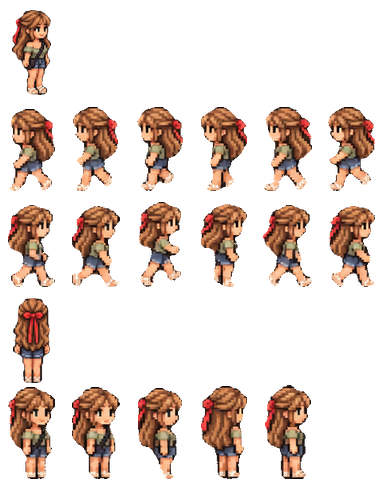
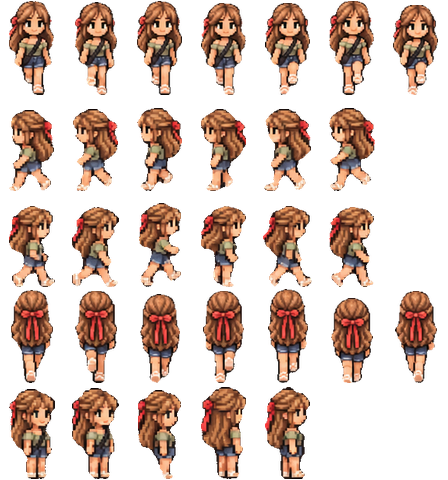
Annie: animated up and down walking and biking
Claude-Session: https://claude.ai/code/session_019vfc9BGUzCoWkXYcXMf4Ma

diff --git a/game.js b/game.js
@@ -1333,15 +1333,15 @@
     if (!(image == null ? void 0 : image.naturalWidth)) return;
     g.drawImage(image, x, y, w, h);
   }
-  const ANNIE_ROWS = { down: [0, 1], left: [1, 6], right: [2, 6], up: [3, 1], idle: [4, 5] };
+  const ANNIE_ROWS = { down: [0, 7], left: [1, 6], right: [2, 6], up: [3, 7], idle: [4, 5] };
   loadAsset("annie_walk");
   function drawAnnie(entity, w, h) {
     const img = assets.annie_walk;
     if (!(img && img.naturalWidth)) return;
-    const moving = entity.moving !== false && (entity.dir === "left" || entity.dir === "right") ? entity.moving : false;
+    const moving = !!entity.moving;
     let [row, n] = ANNIE_ROWS[entity.dir] || ANNIE_ROWS.down, f = 0;
     if (moving) f = Math.floor(entity.phase) % n;
-    const bob = entity.moving && n === 1 ? Math.floor(entity.phase) % 2 : 0;
+    const bob = 0;
     g.drawImage(img, f * 64, row * 96, 64, 96, Math.round(entity.x - w / 2), Math.round(entity.y - h + 6 - bob), w, h);
   }
   function drawIndoorCharacter(actor, male) {
@@ -1721,7 +1721,7 @@
   const RIDE_LAPS = Math.max(1, Math.round((RIDE_END - RIDE_START) * 38 / RIDE_LOOP.length));
   const RIDE_SPEED = RIDE_LAPS * RIDE_LOOP.length / (RIDE_END - RIDE_START);
   const RIDE_SHEETS = {
-    annie: { cw: 90, ch: 100, dirs: ["right", "left"] },
+    annie: { cw: 90, ch: 100, frames: 7, rows: { right: [0, 4], left: [1, 4], down: [2, 7], up: [3, 7] }, dirs: ["down", "right", "up", "left"] },
     hayden: { cw: 83, ch: 99, k: 0.8, dirs: ["down", "downright", "right", "upright", "up", "upleft", "left", "downleft"] },
     alisa: { cw: 66, ch: 101, dirs: ["down", "right", "up", "left"] },
     ralph: { cw: 66, ch: 101, dirs: ["down", "right", "up", "left"] },
@@ -1796,7 +1796,7 @@
       const status = "On the Wednesday bike ride";
       if (!r.sheet) return { step: "ride", status, hidden: true };
       const p = loopPoint(r.s + RIDE_SPEED * (T2 - RIDE_START)), sh = RIDE_SHEETS[r.sheet];
-      return { step: "ride", status, x: p.x, y: p.y + 9, dir: "down", ride: { sheet: r.sheet, dir: dirOf(p.dx, p.dy, sh.dirs), frame: Math.floor((T2 - RIDE_START) * RIDE_SPEED / 11) % 4 } };
+      return { step: "ride", status, x: p.x, y: p.y + 9, dir: "down", ride: { sheet: r.sheet, dir: dirOf(p.dx, p.dy, sh.dirs), frame: Math.floor((T2 - RIDE_START) * RIDE_SPEED / 11) % 4, t: T2 - RIDE_START } };
     }
     if (T2 < r.backT) return { step: "wait", status: "Parking the bikes", x: r.standAt[0], y: r.standAt[1], dir: "down", moving: false };
     return { step: "walk", status: "Walking home from the bike ride", ...samplePath(r.homePath, (T2 - r.backT) / (r.homeT - r.backT)) };
@@ -1805,8 +1805,9 @@
   function drawRider(e) {
     const sh = RIDE_SHEETS[e.ride.sheet], img = assets["bikes/ride_" + e.ride.sheet];
     if (!sh || !(img && img.naturalWidth)) return;
-    const row = Math.max(0, sh.dirs.indexOf(e.ride.dir)), k = (sh.k || 1) / 2, w = sh.cw * k, h = sh.ch * k;
-    g.drawImage(img, e.ride.frame * sh.cw, row * sh.ch, sh.cw, sh.ch, e.x - w / 2, e.y - h, w, h);
+    const rr = sh.rows && sh.rows[e.ride.dir], row = rr ? rr[0] : Math.max(0, sh.dirs.indexOf(e.ride.dir)), k = (sh.k || 1) / 2, w = sh.cw * k, h = sh.ch * k;
+    const frame = rr ? Math.floor(e.ride.t * RIDE_SPEED / 11) % rr[1] : e.ride.frame;
+    g.drawImage(img, frame * sh.cw, row * sh.ch, sh.cw, sh.ch, e.x - w / 2, e.y - h, w, h);
   }
   function drawParkedBike(e) {
     const img = assets["bikes/bike_" + e.bike], sz = BIKE_SIZE[e.bike];

diff --git a/characters.js b/characters.js
@@ -3,7 +3,7 @@
   var btn = document.getElementById("charsToggle"), box = document.getElementById("charsBody");
   if (!btn || !box) return;
   var GROUPS = [
-    { title: "The Family", people: [["Hayden", "companion_avatar", 52, 84, 112, ["bikes/ride_hayden", 83, 99, 2]], ["Annie", "annie_walk", 64, 96, 112, ["bikes/ride_annie", 90, 100, 0], "annie_portrait", 2], ["Riley", "dog_sprite", 72, 72, 62], ["Theo", "cat_sprite", 72, 72, 54]] },
+    { title: "The Family", people: [["Hayden", "companion_avatar", 52, 84, 112, ["bikes/ride_hayden", 83, 99, 2]], ["Annie", "annie_walk", 64, 96, 112, ["bikes/ride_annie", 90, 100, 2], "annie_portrait", 0], ["Riley", "dog_sprite", 72, 72, 62], ["Theo", "cat_sprite", 72, 72, 54]] },
     { title: "Ralph, Alisa, Maggie & Sophie", people: [["Ralph", "npc_blue", 64, 96, 112, ["bikes/ride_ralph", 66, 101, 1]], ["Alisa", "npc_sun", 64, 96, 108, ["bikes/ride_alisa", 66, 101, 1]], ["Maggie", "dogs/maggie", 58, 53, 66, null, "dogs/maggie_portrait"], ["Sophie", "dogs/sophie", 42, 45, 70, null, "dogs/sophie_portrait"]] },
     { title: "Madi, Blair, Nick, Sadie & Mylo", people: [["Madi", "npc_long", 64, 96, 108, ["bikes/ride_madi", 72, 103, 1]], ["Blair", "npc_kid", 64, 96, 80], ["Nick", "npc_beard", 64, 96, 112, ["bikes/ride_nick", 66, 100, 1]], ["Sadie", "dogs/sadie", 60, 52, 66, null, "dogs/sadie_portrait"], ["Mylo", "dogs/mylo", 43, 42, 70, null, "dogs/mylo_portrait"]] },
     { title: "Bailey & Dakota", people: [["Bailey", "npc_jones_f", 64, 96, 112, ["bikes/ride_jones_f", 74, 101, 1], "portrait_jones_f"], ["Dakota", "npc_jones_m", 64, 96, 120, ["bikes/ride_jones_m", 74, 101, 1], "portrait_jones_m"]] }
@@ -65,16 +65,18 @@
     cv.width = 1;
     cv.height = h;
     var img = new Image();
+    var nf = 4;
     img.onload = function() {
+      nf = Math.max(1, Math.floor(img.naturalWidth / cw));
       box2 = { x0: 0, y0: 0, x1: cw, y1: ch };
       try {
         var t = document.createElement("canvas");
-        t.width = cw * 4;
+        t.width = cw * nf;
         t.height = ch;
         var tg = t.getContext("2d");
-        tg.drawImage(img, 0, row * ch, cw * 4, ch, 0, 0, cw * 4, ch);
-        var d = tg.getImageData(0, 0, cw * 4, ch).data, x0 = cw, y0 = ch, x1 = -1, y1 = -1;
-        for (var y = 0; y < ch; y++) for (var x = 0; x < cw * 4; x++) if (d[(y * cw * 4 + x) * 4 + 3] > 40) {
+        tg.drawImage(img, 0, row * ch, cw * nf, ch, 0, 0, cw * nf, ch);
+        var d = tg.getImageData(0, 0, cw * nf, ch).data, x0 = cw, y0 = ch, x1 = -1, y1 = -1;
+        for (var y = 0; y < ch; y++) for (var x = 0; x < cw * nf; x++) if (d[(y * cw * nf + x) * 4 + 3] > 40) {
           var lx = x % cw;
           if (lx < x0) x0 = lx;
           if (lx > x1) x1 = lx;
@@ -95,7 +97,7 @@
       var g = cv.getContext("2d"), bw = box2.x1 - box2.x0, bh = box2.y1 - box2.y0;
       g.imageSmoothingEnabled = false;
       g.clearRect(0, 0, cv.width, cv.height);
-      g.drawImage(img, f % 4 * cw + box2.x0, row * ch + box2.y0, bw, bh, 0, 0, cv.width, cv.height);
+      g.drawImage(img, f % nf * cw + box2.x0, row * ch + box2.y0, bw, bh, 0, 0, cv.width, cv.height);
     };
     var cap = document.createElement("figcaption");
     cap.textContent = label;

diff --git a/index.html b/index.html
@@ -345,24 +345,24 @@ select{font:15px Georgia,serif;background:#f5dfb6;color:#3d3024;border:2px solid
  
   
 </div>
-<script src="compat.js?v=202611070415"></script>
-<script src="game-data.js?v=202611070415"></script>
-<script src="assets-embedded.js?v=202611070415"></script>
-<script src="map-data.js?v=202611070415"></script>
-<script src="town-routes.js?v=202611070415"></script>
-<script src="rain.js?v=202611070415"></script>
-<script src="town.js?v=202611070415"></script>
-<script src="game.js?v=202611070415"></script>
-<script src="osu-feed.js?v=202611070415"></script>
-<script src="thunder-feed.js?v=202611070415"></script>
-<script src="etsy-hq.js?v=202611070415"></script>
-<script src="catalog-data.js?v=202611070415"></script>
-<script src="hq-art-board.js?v=202611070415"></script>
-<script src="research-data.js?v=202611070415"></script>
-<script src="research-board.js?v=202611070415"></script>
-<script src="characters.js?v=202611070415"></script>
-<script src="admin.js?v=202611070415"></script>
-<script src="books-catalog.js?v=202611070415"></script>
+<script src="compat.js?v=202611070430"></script>
+<script src="game-data.js?v=202611070430"></script>
+<script src="assets-embedded.js?v=202611070430"></script>
+<script src="map-data.js?v=202611070430"></script>
+<script src="town-routes.js?v=202611070430"></script>
+<script src="rain.js?v=202611070430"></script>
+<script src="town.js?v=202611070430"></script>
+<script src="game.js?v=202611070430"></script>
+<script src="osu-feed.js?v=202611070430"></script>
+<script src="thunder-feed.js?v=202611070430"></script>
+<script src="etsy-hq.js?v=202611070430"></script>
+<script src="catalog-data.js?v=202611070430"></script>
+<script src="hq-art-board.js?v=202611070430"></script>
+<script src="research-data.js?v=202611070430"></script>
+<script src="research-board.js?v=202611070430"></script>
+<script src="characters.js?v=202611070430"></script>
+<script src="admin.js?v=202611070430"></script>
+<script src="books-catalog.js?v=202611070430"></script>
 <script>
 (() => {
   const t = document.getElementById("settingsTab"), p = document.getElementById("settingsPanel"), x = document.getElementById("settingsClose");

diff --git a/tools/make-annie-sprites.py b/tools/make-annie-sprites.py
@@ -2,12 +2,14 @@
 #   assets/annie_walk.png     64x96 cells; rows down(1), left(6), right(6), up(1), idle(5)
 #   assets/bikes/ride_annie.png   cells 90x100; rows right(4), left(4)
 #   assets/annie_portrait.png full standing picture
-# Usage: python3 tools/make-annie-sprites.py <sheet.png> assets
+# Usage: python3 tools/make-annie-sprites.py <sheet.png> assets [<up-down sheet.png>]
+# The optional second sheet supplies 7-frame walk/bike animations for down and up.
 import sys, json
 import numpy as np
 from PIL import Image
 from scipy import ndimage
 src, OUT = sys.argv[1:3]
+src2 = sys.argv[3] if len(sys.argv) > 3 else None
 a = np.array(Image.open(src).convert('RGBA'))
 fg = a[..., 3] >= 240
 fg = ndimage.binary_opening(fg, iterations=1)
@@ -41,6 +43,29 @@ def sheet(rows, cw, ch, target_h, path):
             if g.width > cw: g = g.resize((cw, round(g.height * cw / g.width)), Image.LANCZOS)
             sh.alpha_composite(g, (c * cw + (cw - g.width) // 2, r * ch + ch - 1 - g.height))
     sh.save(path, optimize=True)
+UD = None
+if src2:
+    b = np.array(Image.open(src2).convert('RGBA'))
+    ROWS2 = [(16, 132), (155, 268), (284, 415), (429, 559), (605, 726), (747, 869), (889, 1038), (1056, 1212)]
+    COLS2 = [(421, 515), (530, 623), (636, 729), (745, 836), (851, 943), (957, 1050), (1064, 1160)]
+    def cell2(y0, y1, x0, x1, bike):
+        al = b[y0:y1, x0:x1, 3]
+        m = ndimage.binary_opening(al >= 240, iterations=1) if not bike else al >= 60
+        lab, n = ndimage.label(m, structure=np.ones((3, 3)))
+        sizes = ndimage.sum(m, lab, range(1, n + 1))
+        keep = np.isin(lab, 1 + np.where(sizes > (40 if bike else 0.3 * sizes.max()))[0])
+        ys, xs = np.where(keep)
+        crop = b[y0 + ys.min():y0 + ys.max() + 1, x0 + xs.min():x0 + xs.max() + 1].copy()
+        kk = keep[ys.min():ys.max() + 1, xs.min():xs.max() + 1].copy()
+        if bike:  # clear the dark 'sticker' halo around the wheels below the waist
+            r, g, bb = (crop[..., i].astype(int) for i in range(3))
+            mx = np.maximum(np.maximum(r, g), bb)
+            halo = (mx > 26) & (mx < 88) & (r >= bb)
+            halo[:int(crop.shape[0] * 0.55)] = False
+            kk &= ~halo
+        crop[..., 3] = np.where(kk, 255, 0)
+        return Image.fromarray(crop)
+    UD = {name: [cell2(*ROWS2[ri], x0, x1, ri >= 4) for x0, x1 in COLS2] for ri, name in enumerate(['wR', 'wL', 'wD', 'wU', 'bR', 'bL', 'bD', 'bU'])}
 st = F['static']  # front, side (right), back, side (left)
 # walking rows: scale so the walking frames are ~94px like the neighbours' 64x96 sheets
 walk_rows = [[st[0]], F['walkL'], F['walkR'], [st[2]], F['idle']]
@@ -48,6 +73,12 @@ walk_rows = [[st[0]], F['walkL'], F['walkR'], [st[2]], F['idle']]
 wh = max(f.height for f in F['walkR'])
 walk_rows[0] = [st[0].resize((round(st[0].width * wh / st[0].height), wh), Image.LANCZOS)]
 walk_rows[3] = [st[2].resize((round(st[2].width * wh / st[2].height), wh), Image.LANCZOS)]
+if UD:
+    # match the up/down frames to the first sheet's size using each sheet's walk-right height
+    k = wh / max(f.height for f in UD['wR'])
+    fit = lambda fr, kk: [f.resize((max(1, round(f.width * kk)), max(1, round(f.height * kk))), Image.LANCZOS) for f in fr]
+    walk_rows[0] = fit(UD['wD'], k)
+    walk_rows[3] = fit(UD['wU'], k)
 sheet(walk_rows, 64, 96, 94, f'{OUT}/annie_walk.png')
 # Bikes: thin wheel outlines need the un-opened mask; split each row into 4 frames at column gaps.
 raw = a[..., 3] >= 60
@@ -87,7 +118,11 @@ def bike_row(y0, y1, x0=335, n=4):
         crop[..., 3] = np.where(kk, 255, 0)
         out.append(Image.fromarray(crop))
     return out
-sheet([bike_row(*BANDS['bikeR']), bike_row(*BANDS['bikeL'])], 90, 100, 98, f'{OUT}/bikes/ride_annie.png')
+bike_rows = [bike_row(*BANDS['bikeR']), bike_row(*BANDS['bikeL'])]
+if UD:
+    kb = max(f.height for f in bike_rows[0]) / max(f.height for f in UD['bR'])
+    bike_rows += [fit(UD['bD'], kb), fit(UD['bU'], kb)]
+sheet(bike_rows, 90, 100, 98, f'{OUT}/bikes/ride_annie.png')
 lab, n = ndimage.label(fg[30:650, 0:300])
 sizes = ndimage.sum(fg[30:650, 0:300], lab, range(1, n + 1))
 i = 1 + int(np.argmax(sizes)); ys, xs = np.where(lab == i)

diff --git a/HANDOFF.md b/HANDOFF.md
@@ -41,7 +41,7 @@ While the Thunder feed says a game is live (`ThunderFeed.current.state === "in"`
 
 ## Annie's sprite (Nov 2026)
 
-Annie uses `assets/annie_walk.png` (64x96 cells; rows down, left ×6, right ×6, up, idle ×5), `assets/bikes/ride_annie.png` (90x100 cells; rows right, left) and `assets/annie_portrait.png`, cut with `tools/make-annie-sprites.py`. `drawAnnie` in `game.js` draws her in town and indoors. The old `player_avatar.png` and the farmhouse meal/couch/sleep pictures still show the earlier look.
+Annie uses `assets/annie_walk.png` (64x96 cells; rows down ×7, left ×6, right ×6, up ×7, idle ×5), `assets/bikes/ride_annie.png` (90x100 cells; rows right ×4, left ×4, down ×7, up ×7) and `assets/annie_portrait.png`, cut with `tools/make-annie-sprites.py <main sheet> assets <up-down sheet>`. `drawAnnie` in `game.js` draws her in town and indoors. The old `player_avatar.png` and the farmhouse meal/couch/sleep pictures still show the earlier look.
 
 ## Neighbours' dogs
 
